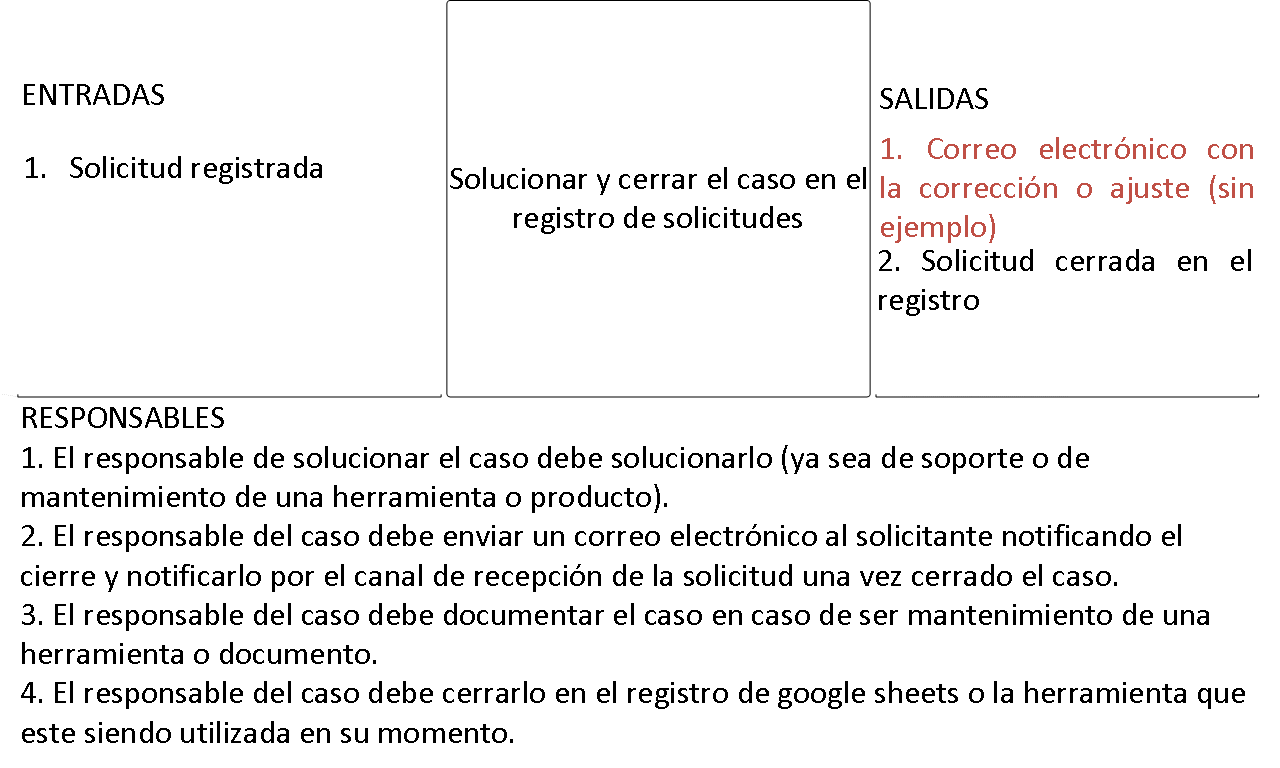
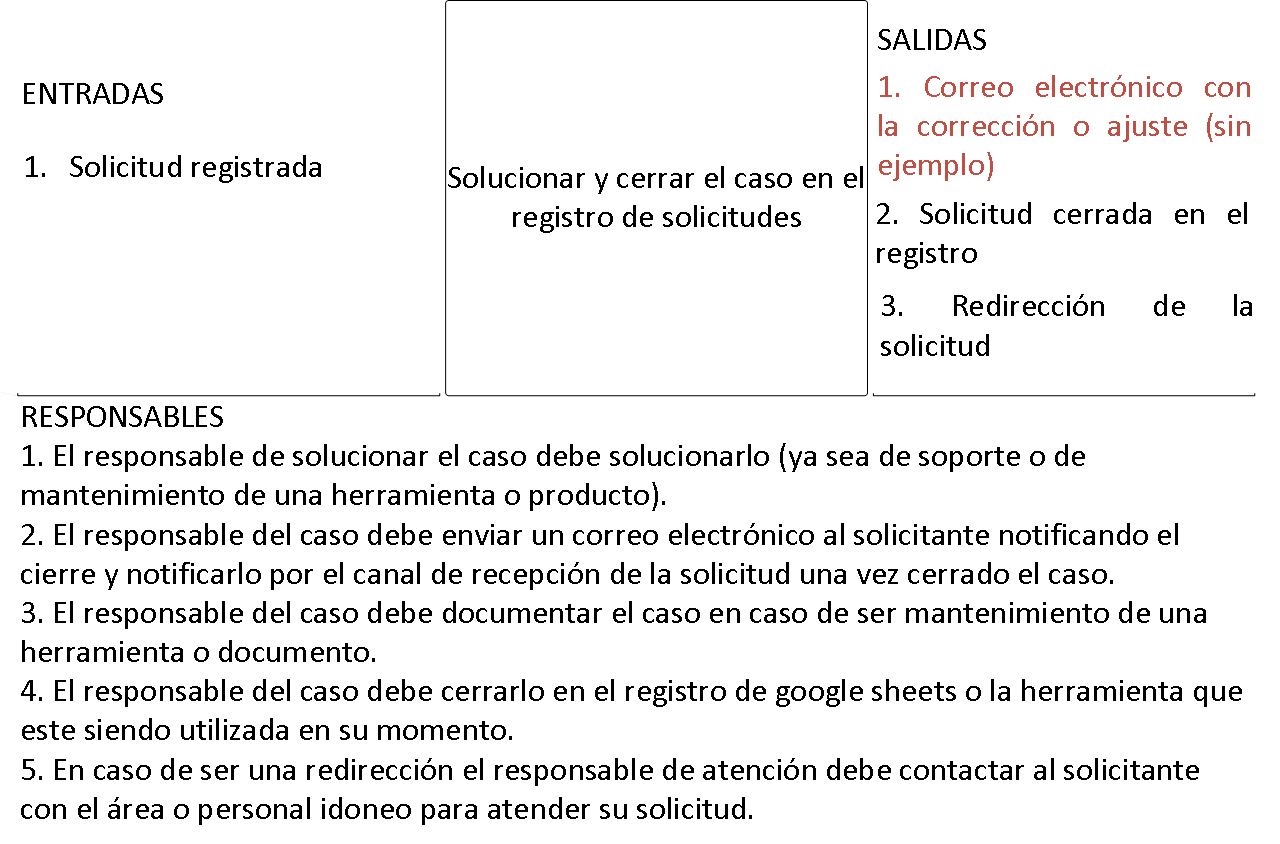
Commit correcciones proceso atención

diff --git a/PROCEDIMIENTO_ATENCION_REQUERIMIENTOS_SOPORTE_MANTENIMIENTO/Atencion_v1_files/png_8.htm b/PROCEDIMIENTO_ATENCION_REQUERIMIENTOS_SOPORTE_MANTENIMIENTO/Atencion_v1_files/png_8.htm
@@ -59,8 +59,8 @@ if (parent.isUpLevel)
 
 	viewMgr.put_Location = ViewMgrSetRasterLocation;
 	viewMgr.visBBoxLeft = 0.871730;
-	viewMgr.visBBoxRight = 33.415842;
-	viewMgr.visBBoxBottom = 14.908324;
+	viewMgr.visBBoxRight = 33.514837;
+	viewMgr.visBBoxBottom = 12.908327;
 	viewMgr.visBBoxTop = 34.451999;
 	viewMgr.highlightDiv = null;
 }
@@ -131,17 +131,18 @@ div.banner {
 </center>
 
 <MAP NAME="visImageMap">
-  <AREA shape="POLYGON" tabindex="1" ALT="2. Solicitud cerrada en el registro" origTitle="2. Solicitud cerrada en el registro" TITLE="2. Solicitud cerrada en el registro" HREF="https://docs.google.com/spreadsheets/d/17PfaLaGlwiHCWlYZ4oyKEfvwVMzuqpaJiYXCdXS0JZk/edit#gid=0" target="_top" COORDS="988,281,1262,281,1262,237,878,237,878,276,878,281,878,320,988,320,988,281" onmouseover="UpdateTooltip(this,27,71,event)" onfocus="UpdateTooltip(this,27,71,event)" onclick="return OnShapeClick(27,71,event);" onkeyup="OnShapeKey(27,71,event);">
-  <AREA shape="POLYGON" tabindex="1" ALT="SALIDAS" origTitle="SALIDAS" TITLE="SALIDAS"  target="_top" COORDS="1255,395,1255,397,1259,393,876,393,880,397,880,395,872,395,872,397,876,401,1259,401,1263,397,1263,395,1255,395" onmouseover="UpdateTooltip(this,27,65,event)" onfocus="UpdateTooltip(this,27,65,event)" onclick="return OnShapeClick(27,65,event);" onkeyup="OnShapeKey(27,65,event);">
-  <AREA shape="POLYGON" tabindex="1" ALT="SALIDAS" origTitle="SALIDAS" TITLE="SALIDAS"  target="_top" COORDS="902,401,1068,401,1068,393,902,393,902,401" onmouseover="UpdateTooltip(this,27,65,event)" onfocus="UpdateTooltip(this,27,65,event)" onclick="return OnShapeClick(27,65,event);" onkeyup="OnShapeKey(27,65,event);">
-  <AREA shape="POLYGON" tabindex="1" ALT="SALIDAS" origTitle="SALIDAS" TITLE="SALIDAS"  target="_top" COORDS="880,74,880,118,990,118,990,74,880,74" onmouseover="UpdateTooltip(this,27,65,event)" onfocus="UpdateTooltip(this,27,65,event)" onclick="return OnShapeClick(27,65,event);" onkeyup="OnShapeKey(27,65,event);">
-  <AREA shape="POLYGON" tabindex="1" ALT="1. Correo electrónico con la corrección o ajuste (sin ejemplo)" origTitle="1. Correo electrónico con la corrección o ajuste (sin ejemplo)" TITLE="1. Correo electrónico con la corrección o ajuste (sin ejemplo)" HREF="https://docs.google.com/spreadsheets/d/17PfaLaGlwiHCWlYZ4oyKEfvwVMzuqpaJiYXCdXS0JZk/edit#gid=0" target="_top" COORDS="998,208,1264,208,1264,168,1264,164,1264,124,926,124,926,164,904,164,904,124,880,124,880,164,880,168,880,203,880,208,880,247,998,247,998,208" onmouseover="UpdateTooltip(this,27,64,event)" onfocus="UpdateTooltip(this,27,64,event)" onclick="return OnShapeClick(27,64,event);" onkeyup="OnShapeKey(27,64,event);">
-  <AREA shape="POLYGON" tabindex="1" ALT="1. Solicitud registrada" origTitle="1. Solicitud registrada" TITLE="1. Solicitud registrada" HREF="https://docs.google.com/spreadsheets/d/17PfaLaGlwiHCWlYZ4oyKEfvwVMzuqpaJiYXCdXS0JZk/edit#gid=0" target="_top" COORDS="22,143,22,188,47,188,47,143,22,143" onmouseover="UpdateTooltip(this,27,59,event)" onfocus="UpdateTooltip(this,27,59,event)" onclick="return OnShapeClick(27,59,event);" onkeyup="OnShapeKey(27,59,event);">
-  <AREA shape="POLYGON" tabindex="1" ALT="1. Solicitud registrada" origTitle="1. Solicitud registrada" TITLE="1. Solicitud registrada" HREF="https://docs.google.com/spreadsheets/d/17PfaLaGlwiHCWlYZ4oyKEfvwVMzuqpaJiYXCdXS0JZk/edit#gid=0" target="_top" COORDS="69,143,69,188,325,188,325,143,69,143" onmouseover="UpdateTooltip(this,27,59,event)" onfocus="UpdateTooltip(this,27,59,event)" onclick="return OnShapeClick(27,59,event);" onkeyup="OnShapeKey(27,59,event);">
-  <AREA shape="POLYGON" tabindex="1" ALT="ENTRADAS" origTitle="ENTRADAS" TITLE="ENTRADAS" HREF="https://github.com/jaimeparramilic/GESTION-CALIDAD-ANALITICA/blob/master/RECOLECTAR%2520INFORMACI%25C3%2593N/PROYECCIONES%2520ABR-19%2520v7.xlsm" target="_top" COORDS="437,395,437,397,441,393,17,393,21,397,21,395,13,395,13,397,17,401,441,401,445,397,445,395,437,395" onmouseover="UpdateTooltip(this,27,49,event)" onfocus="UpdateTooltip(this,27,49,event)" onclick="return OnShapeClick(27,49,event);" onkeyup="OnShapeKey(27,49,event);">
-  <AREA shape="POLYGON" tabindex="1" ALT="ENTRADAS" origTitle="ENTRADAS" TITLE="ENTRADAS" HREF="https://github.com/jaimeparramilic/GESTION-CALIDAD-ANALITICA/blob/master/RECOLECTAR%2520INFORMACI%25C3%2593N/PROYECCIONES%2520ABR-19%2520v7.xlsm" target="_top" COORDS="0,398,16,401,18,393,1,390,0,398" onmouseover="UpdateTooltip(this,27,49,event)" onfocus="UpdateTooltip(this,27,49,event)" onclick="return OnShapeClick(27,49,event);" onkeyup="OnShapeKey(27,49,event);">
+  <AREA shape="POLYGON" tabindex="1" ALT="3. Redirección de la solicitud" origTitle="3. Redirección de la solicitud" TITLE="3. Redirección de la solicitud" HREF="https://docs.google.com/spreadsheets/d/17PfaLaGlwiHCWlYZ4oyKEfvwVMzuqpaJiYXCdXS0JZk/edit#gid=0" target="_top" COORDS="1000,326,1264,326,1264,282,881,282,881,322,881,326,881,366,1000,366,1000,326" onmouseover="UpdateTooltip(this,27,72,event)" onfocus="UpdateTooltip(this,27,72,event)" onclick="return OnShapeClick(27,72,event);" onkeyup="OnShapeKey(27,72,event);">
+  <AREA shape="POLYGON" tabindex="1" ALT="2. Solicitud cerrada en el registro" origTitle="2. Solicitud cerrada en el registro" TITLE="2. Solicitud cerrada en el registro" HREF="https://docs.google.com/spreadsheets/d/17PfaLaGlwiHCWlYZ4oyKEfvwVMzuqpaJiYXCdXS0JZk/edit#gid=0" target="_top" COORDS="985,234,1258,234,1258,190,875,190,875,229,875,234,875,273,985,273,985,234" onmouseover="UpdateTooltip(this,27,71,event)" onfocus="UpdateTooltip(this,27,71,event)" onclick="return OnShapeClick(27,71,event);" onkeyup="OnShapeKey(27,71,event);">
+  <AREA shape="POLYGON" tabindex="1" ALT="SALIDAS" origTitle="SALIDAS" TITLE="SALIDAS"  target="_top" COORDS="1252,394,1252,396,1256,392,874,392,878,396,878,394,870,394,870,396,874,400,1256,400,1260,396,1260,394,1252,394" onmouseover="UpdateTooltip(this,27,65,event)" onfocus="UpdateTooltip(this,27,65,event)" onclick="return OnShapeClick(27,65,event);" onkeyup="OnShapeKey(27,65,event);">
+  <AREA shape="POLYGON" tabindex="1" ALT="SALIDAS" origTitle="SALIDAS" TITLE="SALIDAS"  target="_top" COORDS="899,400,1065,400,1065,392,899,392,899,400" onmouseover="UpdateTooltip(this,27,65,event)" onfocus="UpdateTooltip(this,27,65,event)" onclick="return OnShapeClick(27,65,event);" onkeyup="OnShapeKey(27,65,event);">
+  <AREA shape="POLYGON" tabindex="1" ALT="SALIDAS" origTitle="SALIDAS" TITLE="SALIDAS"  target="_top" COORDS="877,15,877,59,987,59,987,15,877,15" onmouseover="UpdateTooltip(this,27,65,event)" onfocus="UpdateTooltip(this,27,65,event)" onclick="return OnShapeClick(27,65,event);" onkeyup="OnShapeKey(27,65,event);">
+  <AREA shape="POLYGON" tabindex="1" ALT="1. Correo electrónico con la corrección o ajuste (sin ejemplo)" origTitle="1. Correo electrónico con la corrección o ajuste (sin ejemplo)" TITLE="1. Correo electrónico con la corrección o ajuste (sin ejemplo)" HREF="https://docs.google.com/spreadsheets/d/17PfaLaGlwiHCWlYZ4oyKEfvwVMzuqpaJiYXCdXS0JZk/edit#gid=0" target="_top" COORDS="995,145,1260,145,1260,106,1260,101,1260,62,923,62,923,101,902,101,902,62,877,62,877,101,877,106,877,140,877,145,877,185,995,185,995,145" onmouseover="UpdateTooltip(this,27,64,event)" onfocus="UpdateTooltip(this,27,64,event)" onclick="return OnShapeClick(27,64,event);" onkeyup="OnShapeKey(27,64,event);">
+  <AREA shape="POLYGON" tabindex="1" ALT="1. Solicitud registrada" origTitle="1. Solicitud registrada" TITLE="1. Solicitud registrada" HREF="https://docs.google.com/spreadsheets/d/17PfaLaGlwiHCWlYZ4oyKEfvwVMzuqpaJiYXCdXS0JZk/edit#gid=0" target="_top" COORDS="22,143,22,187,47,187,47,143,22,143" onmouseover="UpdateTooltip(this,27,59,event)" onfocus="UpdateTooltip(this,27,59,event)" onclick="return OnShapeClick(27,59,event);" onkeyup="OnShapeKey(27,59,event);">
+  <AREA shape="POLYGON" tabindex="1" ALT="1. Solicitud registrada" origTitle="1. Solicitud registrada" TITLE="1. Solicitud registrada" HREF="https://docs.google.com/spreadsheets/d/17PfaLaGlwiHCWlYZ4oyKEfvwVMzuqpaJiYXCdXS0JZk/edit#gid=0" target="_top" COORDS="68,143,68,187,324,187,324,143,68,143" onmouseover="UpdateTooltip(this,27,59,event)" onfocus="UpdateTooltip(this,27,59,event)" onclick="return OnShapeClick(27,59,event);" onkeyup="OnShapeKey(27,59,event);">
+  <AREA shape="POLYGON" tabindex="1" ALT="ENTRADAS" origTitle="ENTRADAS" TITLE="ENTRADAS" HREF="https://github.com/jaimeparramilic/GESTION-CALIDAD-ANALITICA/blob/master/RECOLECTAR%2520INFORMACI%25C3%2593N/PROYECCIONES%2520ABR-19%2520v7.xlsm" target="_top" COORDS="435,394,435,396,439,392,17,392,21,396,21,394,13,394,13,396,17,400,439,400,443,396,443,394,435,394" onmouseover="UpdateTooltip(this,27,49,event)" onfocus="UpdateTooltip(this,27,49,event)" onclick="return OnShapeClick(27,49,event);" onkeyup="OnShapeKey(27,49,event);">
+  <AREA shape="POLYGON" tabindex="1" ALT="ENTRADAS" origTitle="ENTRADAS" TITLE="ENTRADAS" HREF="https://github.com/jaimeparramilic/GESTION-CALIDAD-ANALITICA/blob/master/RECOLECTAR%2520INFORMACI%25C3%2593N/PROYECCIONES%2520ABR-19%2520v7.xlsm" target="_top" COORDS="0,397,16,400,17,392,1,389,0,397" onmouseover="UpdateTooltip(this,27,49,event)" onfocus="UpdateTooltip(this,27,49,event)" onclick="return OnShapeClick(27,49,event);" onkeyup="OnShapeKey(27,49,event);">
   <AREA shape="POLYGON" tabindex="1" ALT="ENTRADAS" origTitle="ENTRADAS" TITLE="ENTRADAS" HREF="https://github.com/jaimeparramilic/GESTION-CALIDAD-ANALITICA/blob/master/RECOLECTAR%2520INFORMACI%25C3%2593N/PROYECCIONES%2520ABR-19%2520v7.xlsm" target="_top" COORDS="20,70,20,114,164,114,164,70,20,70" onmouseover="UpdateTooltip(this,27,49,event)" onfocus="UpdateTooltip(this,27,49,event)" onclick="return OnShapeClick(27,49,event);" onkeyup="OnShapeKey(27,49,event);">
-  <AREA shape="POLYGON" tabindex="1" ALT="Solucionar y cerrar el caso en el registro de solicitudes" origTitle="Solucionar y cerrar el caso en el registro de solicitudes" TITLE="Solucionar y cerrar el caso en el registro de solicitudes" HREF="png_8.htm" target="frmDrawing" COORDS="870,154,870,3,870,2,870,1,869,0,867,0,450,0,448,0,447,1,447,2,447,3,447,394,447,395,447,396,448,397,450,397,867,397,869,397,870,396,870,395,870,394,870,199,876,199,876,154,870,154" onmouseover="UpdateTooltip(this,27,26,event)" onfocus="UpdateTooltip(this,27,26,event)" onclick="return OnShapeClick(27,26,event);" onkeyup="OnShapeKey(27,26,event);">
+  <AREA shape="POLYGON" tabindex="1" ALT="Solucionar y cerrar el caso en el registro de solicitudes" origTitle="Solucionar y cerrar el caso en el registro de solicitudes" TITLE="Solucionar y cerrar el caso en el registro de solicitudes" HREF="png_8.htm" target="frmDrawing" COORDS="868,154,868,3,868,2,867,1,866,0,865,0,448,0,447,0,446,1,445,2,445,3,445,393,445,394,446,395,447,396,448,396,865,396,866,396,867,395,868,394,868,393,868,198,873,198,873,154,868,154" onmouseover="UpdateTooltip(this,27,26,event)" onfocus="UpdateTooltip(this,27,26,event)" onclick="return OnShapeClick(27,26,event);" onkeyup="OnShapeKey(27,26,event);">
 </MAP>
 
 

diff --git a/SITIO/syncfusion_payc/syncfusion_payc/Atencion_v1_files/png_8.htm b/SITIO/syncfusion_payc/syncfusion_payc/Atencion_v1_files/png_8.htm
@@ -59,8 +59,8 @@ if (parent.isUpLevel)
 
 	viewMgr.put_Location = ViewMgrSetRasterLocation;
 	viewMgr.visBBoxLeft = 0.871730;
-	viewMgr.visBBoxRight = 33.415842;
-	viewMgr.visBBoxBottom = 14.908324;
+	viewMgr.visBBoxRight = 33.514837;
+	viewMgr.visBBoxBottom = 12.908327;
 	viewMgr.visBBoxTop = 34.451999;
 	viewMgr.highlightDiv = null;
 }
@@ -131,17 +131,18 @@ div.banner {
 </center>
 
 <MAP NAME="visImageMap">
-  <AREA shape="POLYGON" tabindex="1" ALT="2. Solicitud cerrada en el registro" origTitle="2. Solicitud cerrada en el registro" TITLE="2. Solicitud cerrada en el registro" HREF="https://docs.google.com/spreadsheets/d/17PfaLaGlwiHCWlYZ4oyKEfvwVMzuqpaJiYXCdXS0JZk/edit#gid=0" target="_top" COORDS="988,281,1262,281,1262,237,878,237,878,276,878,281,878,320,988,320,988,281" onmouseover="UpdateTooltip(this,27,71,event)" onfocus="UpdateTooltip(this,27,71,event)" onclick="return OnShapeClick(27,71,event);" onkeyup="OnShapeKey(27,71,event);">
-  <AREA shape="POLYGON" tabindex="1" ALT="SALIDAS" origTitle="SALIDAS" TITLE="SALIDAS"  target="_top" COORDS="1255,395,1255,397,1259,393,876,393,880,397,880,395,872,395,872,397,876,401,1259,401,1263,397,1263,395,1255,395" onmouseover="UpdateTooltip(this,27,65,event)" onfocus="UpdateTooltip(this,27,65,event)" onclick="return OnShapeClick(27,65,event);" onkeyup="OnShapeKey(27,65,event);">
-  <AREA shape="POLYGON" tabindex="1" ALT="SALIDAS" origTitle="SALIDAS" TITLE="SALIDAS"  target="_top" COORDS="902,401,1068,401,1068,393,902,393,902,401" onmouseover="UpdateTooltip(this,27,65,event)" onfocus="UpdateTooltip(this,27,65,event)" onclick="return OnShapeClick(27,65,event);" onkeyup="OnShapeKey(27,65,event);">
-  <AREA shape="POLYGON" tabindex="1" ALT="SALIDAS" origTitle="SALIDAS" TITLE="SALIDAS"  target="_top" COORDS="880,74,880,118,990,118,990,74,880,74" onmouseover="UpdateTooltip(this,27,65,event)" onfocus="UpdateTooltip(this,27,65,event)" onclick="return OnShapeClick(27,65,event);" onkeyup="OnShapeKey(27,65,event);">
-  <AREA shape="POLYGON" tabindex="1" ALT="1. Correo electrónico con la corrección o ajuste (sin ejemplo)" origTitle="1. Correo electrónico con la corrección o ajuste (sin ejemplo)" TITLE="1. Correo electrónico con la corrección o ajuste (sin ejemplo)" HREF="https://docs.google.com/spreadsheets/d/17PfaLaGlwiHCWlYZ4oyKEfvwVMzuqpaJiYXCdXS0JZk/edit#gid=0" target="_top" COORDS="998,208,1264,208,1264,168,1264,164,1264,124,926,124,926,164,904,164,904,124,880,124,880,164,880,168,880,203,880,208,880,247,998,247,998,208" onmouseover="UpdateTooltip(this,27,64,event)" onfocus="UpdateTooltip(this,27,64,event)" onclick="return OnShapeClick(27,64,event);" onkeyup="OnShapeKey(27,64,event);">
-  <AREA shape="POLYGON" tabindex="1" ALT="1. Solicitud registrada" origTitle="1. Solicitud registrada" TITLE="1. Solicitud registrada" HREF="https://docs.google.com/spreadsheets/d/17PfaLaGlwiHCWlYZ4oyKEfvwVMzuqpaJiYXCdXS0JZk/edit#gid=0" target="_top" COORDS="22,143,22,188,47,188,47,143,22,143" onmouseover="UpdateTooltip(this,27,59,event)" onfocus="UpdateTooltip(this,27,59,event)" onclick="return OnShapeClick(27,59,event);" onkeyup="OnShapeKey(27,59,event);">
-  <AREA shape="POLYGON" tabindex="1" ALT="1. Solicitud registrada" origTitle="1. Solicitud registrada" TITLE="1. Solicitud registrada" HREF="https://docs.google.com/spreadsheets/d/17PfaLaGlwiHCWlYZ4oyKEfvwVMzuqpaJiYXCdXS0JZk/edit#gid=0" target="_top" COORDS="69,143,69,188,325,188,325,143,69,143" onmouseover="UpdateTooltip(this,27,59,event)" onfocus="UpdateTooltip(this,27,59,event)" onclick="return OnShapeClick(27,59,event);" onkeyup="OnShapeKey(27,59,event);">
-  <AREA shape="POLYGON" tabindex="1" ALT="ENTRADAS" origTitle="ENTRADAS" TITLE="ENTRADAS" HREF="https://github.com/jaimeparramilic/GESTION-CALIDAD-ANALITICA/blob/master/RECOLECTAR%2520INFORMACI%25C3%2593N/PROYECCIONES%2520ABR-19%2520v7.xlsm" target="_top" COORDS="437,395,437,397,441,393,17,393,21,397,21,395,13,395,13,397,17,401,441,401,445,397,445,395,437,395" onmouseover="UpdateTooltip(this,27,49,event)" onfocus="UpdateTooltip(this,27,49,event)" onclick="return OnShapeClick(27,49,event);" onkeyup="OnShapeKey(27,49,event);">
-  <AREA shape="POLYGON" tabindex="1" ALT="ENTRADAS" origTitle="ENTRADAS" TITLE="ENTRADAS" HREF="https://github.com/jaimeparramilic/GESTION-CALIDAD-ANALITICA/blob/master/RECOLECTAR%2520INFORMACI%25C3%2593N/PROYECCIONES%2520ABR-19%2520v7.xlsm" target="_top" COORDS="0,398,16,401,18,393,1,390,0,398" onmouseover="UpdateTooltip(this,27,49,event)" onfocus="UpdateTooltip(this,27,49,event)" onclick="return OnShapeClick(27,49,event);" onkeyup="OnShapeKey(27,49,event);">
+  <AREA shape="POLYGON" tabindex="1" ALT="3. Redirección de la solicitud" origTitle="3. Redirección de la solicitud" TITLE="3. Redirección de la solicitud" HREF="https://docs.google.com/spreadsheets/d/17PfaLaGlwiHCWlYZ4oyKEfvwVMzuqpaJiYXCdXS0JZk/edit#gid=0" target="_top" COORDS="1000,326,1264,326,1264,282,881,282,881,322,881,326,881,366,1000,366,1000,326" onmouseover="UpdateTooltip(this,27,72,event)" onfocus="UpdateTooltip(this,27,72,event)" onclick="return OnShapeClick(27,72,event);" onkeyup="OnShapeKey(27,72,event);">
+  <AREA shape="POLYGON" tabindex="1" ALT="2. Solicitud cerrada en el registro" origTitle="2. Solicitud cerrada en el registro" TITLE="2. Solicitud cerrada en el registro" HREF="https://docs.google.com/spreadsheets/d/17PfaLaGlwiHCWlYZ4oyKEfvwVMzuqpaJiYXCdXS0JZk/edit#gid=0" target="_top" COORDS="985,234,1258,234,1258,190,875,190,875,229,875,234,875,273,985,273,985,234" onmouseover="UpdateTooltip(this,27,71,event)" onfocus="UpdateTooltip(this,27,71,event)" onclick="return OnShapeClick(27,71,event);" onkeyup="OnShapeKey(27,71,event);">
+  <AREA shape="POLYGON" tabindex="1" ALT="SALIDAS" origTitle="SALIDAS" TITLE="SALIDAS"  target="_top" COORDS="1252,394,1252,396,1256,392,874,392,878,396,878,394,870,394,870,396,874,400,1256,400,1260,396,1260,394,1252,394" onmouseover="UpdateTooltip(this,27,65,event)" onfocus="UpdateTooltip(this,27,65,event)" onclick="return OnShapeClick(27,65,event);" onkeyup="OnShapeKey(27,65,event);">
+  <AREA shape="POLYGON" tabindex="1" ALT="SALIDAS" origTitle="SALIDAS" TITLE="SALIDAS"  target="_top" COORDS="899,400,1065,400,1065,392,899,392,899,400" onmouseover="UpdateTooltip(this,27,65,event)" onfocus="UpdateTooltip(this,27,65,event)" onclick="return OnShapeClick(27,65,event);" onkeyup="OnShapeKey(27,65,event);">
+  <AREA shape="POLYGON" tabindex="1" ALT="SALIDAS" origTitle="SALIDAS" TITLE="SALIDAS"  target="_top" COORDS="877,15,877,59,987,59,987,15,877,15" onmouseover="UpdateTooltip(this,27,65,event)" onfocus="UpdateTooltip(this,27,65,event)" onclick="return OnShapeClick(27,65,event);" onkeyup="OnShapeKey(27,65,event);">
+  <AREA shape="POLYGON" tabindex="1" ALT="1. Correo electrónico con la corrección o ajuste (sin ejemplo)" origTitle="1. Correo electrónico con la corrección o ajuste (sin ejemplo)" TITLE="1. Correo electrónico con la corrección o ajuste (sin ejemplo)" HREF="https://docs.google.com/spreadsheets/d/17PfaLaGlwiHCWlYZ4oyKEfvwVMzuqpaJiYXCdXS0JZk/edit#gid=0" target="_top" COORDS="995,145,1260,145,1260,106,1260,101,1260,62,923,62,923,101,902,101,902,62,877,62,877,101,877,106,877,140,877,145,877,185,995,185,995,145" onmouseover="UpdateTooltip(this,27,64,event)" onfocus="UpdateTooltip(this,27,64,event)" onclick="return OnShapeClick(27,64,event);" onkeyup="OnShapeKey(27,64,event);">
+  <AREA shape="POLYGON" tabindex="1" ALT="1. Solicitud registrada" origTitle="1. Solicitud registrada" TITLE="1. Solicitud registrada" HREF="https://docs.google.com/spreadsheets/d/17PfaLaGlwiHCWlYZ4oyKEfvwVMzuqpaJiYXCdXS0JZk/edit#gid=0" target="_top" COORDS="22,143,22,187,47,187,47,143,22,143" onmouseover="UpdateTooltip(this,27,59,event)" onfocus="UpdateTooltip(this,27,59,event)" onclick="return OnShapeClick(27,59,event);" onkeyup="OnShapeKey(27,59,event);">
+  <AREA shape="POLYGON" tabindex="1" ALT="1. Solicitud registrada" origTitle="1. Solicitud registrada" TITLE="1. Solicitud registrada" HREF="https://docs.google.com/spreadsheets/d/17PfaLaGlwiHCWlYZ4oyKEfvwVMzuqpaJiYXCdXS0JZk/edit#gid=0" target="_top" COORDS="68,143,68,187,324,187,324,143,68,143" onmouseover="UpdateTooltip(this,27,59,event)" onfocus="UpdateTooltip(this,27,59,event)" onclick="return OnShapeClick(27,59,event);" onkeyup="OnShapeKey(27,59,event);">
+  <AREA shape="POLYGON" tabindex="1" ALT="ENTRADAS" origTitle="ENTRADAS" TITLE="ENTRADAS" HREF="https://github.com/jaimeparramilic/GESTION-CALIDAD-ANALITICA/blob/master/RECOLECTAR%2520INFORMACI%25C3%2593N/PROYECCIONES%2520ABR-19%2520v7.xlsm" target="_top" COORDS="435,394,435,396,439,392,17,392,21,396,21,394,13,394,13,396,17,400,439,400,443,396,443,394,435,394" onmouseover="UpdateTooltip(this,27,49,event)" onfocus="UpdateTooltip(this,27,49,event)" onclick="return OnShapeClick(27,49,event);" onkeyup="OnShapeKey(27,49,event);">
+  <AREA shape="POLYGON" tabindex="1" ALT="ENTRADAS" origTitle="ENTRADAS" TITLE="ENTRADAS" HREF="https://github.com/jaimeparramilic/GESTION-CALIDAD-ANALITICA/blob/master/RECOLECTAR%2520INFORMACI%25C3%2593N/PROYECCIONES%2520ABR-19%2520v7.xlsm" target="_top" COORDS="0,397,16,400,17,392,1,389,0,397" onmouseover="UpdateTooltip(this,27,49,event)" onfocus="UpdateTooltip(this,27,49,event)" onclick="return OnShapeClick(27,49,event);" onkeyup="OnShapeKey(27,49,event);">
   <AREA shape="POLYGON" tabindex="1" ALT="ENTRADAS" origTitle="ENTRADAS" TITLE="ENTRADAS" HREF="https://github.com/jaimeparramilic/GESTION-CALIDAD-ANALITICA/blob/master/RECOLECTAR%2520INFORMACI%25C3%2593N/PROYECCIONES%2520ABR-19%2520v7.xlsm" target="_top" COORDS="20,70,20,114,164,114,164,70,20,70" onmouseover="UpdateTooltip(this,27,49,event)" onfocus="UpdateTooltip(this,27,49,event)" onclick="return OnShapeClick(27,49,event);" onkeyup="OnShapeKey(27,49,event);">
-  <AREA shape="POLYGON" tabindex="1" ALT="Solucionar y cerrar el caso en el registro de solicitudes" origTitle="Solucionar y cerrar el caso en el registro de solicitudes" TITLE="Solucionar y cerrar el caso en el registro de solicitudes" HREF="png_8.htm" target="frmDrawing" COORDS="870,154,870,3,870,2,870,1,869,0,867,0,450,0,448,0,447,1,447,2,447,3,447,394,447,395,447,396,448,397,450,397,867,397,869,397,870,396,870,395,870,394,870,199,876,199,876,154,870,154" onmouseover="UpdateTooltip(this,27,26,event)" onfocus="UpdateTooltip(this,27,26,event)" onclick="return OnShapeClick(27,26,event);" onkeyup="OnShapeKey(27,26,event);">
+  <AREA shape="POLYGON" tabindex="1" ALT="Solucionar y cerrar el caso en el registro de solicitudes" origTitle="Solucionar y cerrar el caso en el registro de solicitudes" TITLE="Solucionar y cerrar el caso en el registro de solicitudes" HREF="png_8.htm" target="frmDrawing" COORDS="868,154,868,3,868,2,867,1,866,0,865,0,448,0,447,0,446,1,445,2,445,3,445,393,445,394,446,395,447,396,448,396,865,396,866,396,867,395,868,394,868,393,868,198,873,198,873,154,868,154" onmouseover="UpdateTooltip(this,27,26,event)" onfocus="UpdateTooltip(this,27,26,event)" onclick="return OnShapeClick(27,26,event);" onkeyup="OnShapeKey(27,26,event);">
 </MAP>
 
 

diff --git a/PROCEDIMIENTO_ATENCION_REQUERIMIENTOS_SOPORTE_MANTENIMIENTO/Atencion_v1.htm b/PROCEDIMIENTO_ATENCION_REQUERIMIENTOS_SOPORTE_MANTENIMIENTO/Atencion_v1.htm
@@ -777,7 +777,7 @@ function CreateHLObj (hlNode)
 		</script>
 	</head>
 	
-	<frameset id="frmstOuter" >
+	<frameset id="frmstOuter">
 		<!--<frame src="Atencion_v1_files/toolbar.htm" name="frmToolbar" id="frmToolbar" title="This frame contains tools for manipulating your drawing." frameborder="6" bordercolor="#999999" scrolling="no" marginheight="0" marginwidth="0" >-->
 		<frame src="Atencion_v1_files/png_1.htm" name="frmDrawing" title="This frame contains the pages of your drawing." marginheight="10" marginwidth="10" onload="if (parent.isUpLevel) FramePageLoaded()" >
 

diff --git a/SITIO/syncfusion_payc/syncfusion_payc/Atencion_v1.htm b/SITIO/syncfusion_payc/syncfusion_payc/Atencion_v1.htm
@@ -777,7 +777,7 @@ function CreateHLObj (hlNode)
 		</script>
 	</head>
 	
-	<frameset id="frmstOuter" >
+	<frameset id="frmstOuter">
 		<!--<frame src="Atencion_v1_files/toolbar.htm" name="frmToolbar" id="frmToolbar" title="This frame contains tools for manipulating your drawing." frameborder="6" bordercolor="#999999" scrolling="no" marginheight="0" marginwidth="0" >-->
 		<frame src="Atencion_v1_files/png_1.htm" name="frmDrawing" title="This frame contains the pages of your drawing." marginheight="10" marginwidth="10" onload="if (parent.isUpLevel) FramePageLoaded()" >
 
